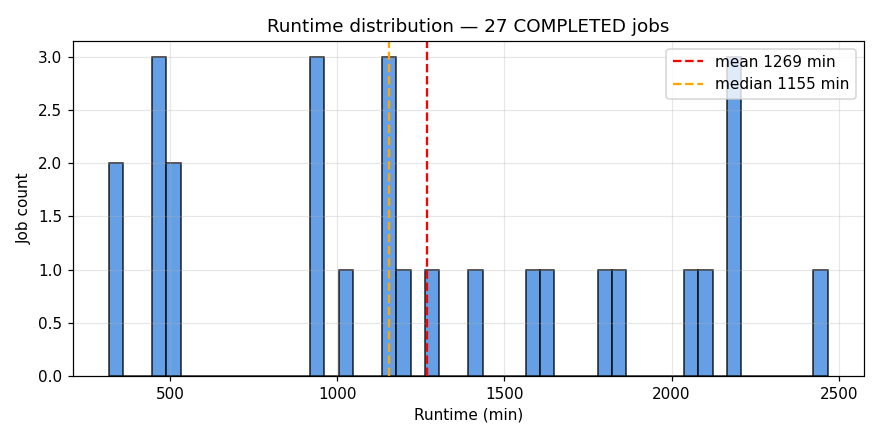
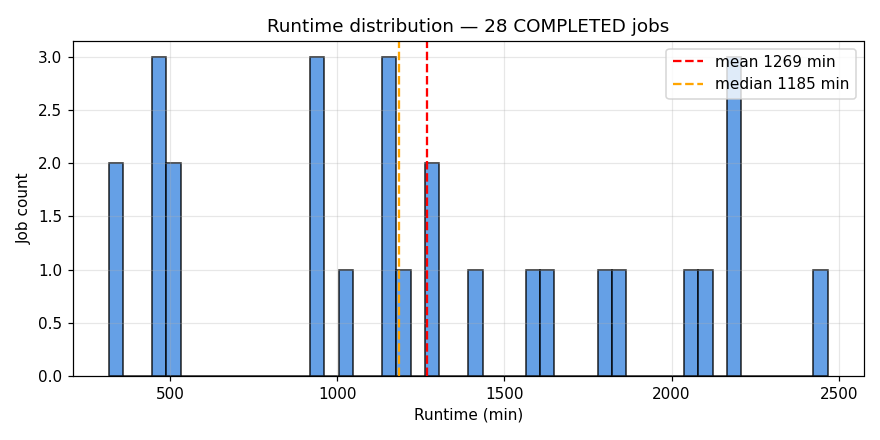
auto: 2026-09-25 13:15:57

diff --git a/index.html b/index.html
@@ -24,29 +24,29 @@ tr:nth-child(even) { background: #fafafa; }
 </style>
 </head><body>
 <h1>AF3 Campaign Dashboard</h1>
-<p class="stamp">Last updated: <strong>2026-09-25 12:15 EDT</strong> · regenerated on the cluster hourly · this page auto-reloads every 30 min</p>
+<p class="stamp">Last updated: <strong>2026-09-25 13:16 EDT</strong> · regenerated on the cluster hourly · this page auto-reloads every 30 min</p>
 
 <div class="cards">
-  <div class="card"><div class="v">1,715</div><div class="l">Total COMPLETED pairs</div></div>
-  <div class="card"><div class="v">634</div><div class="l">Done today</div></div>
-  <div class="card"><div class="v">936</div><div class="l">Last 24 h rate</div></div>
-  <div class="card"><div class="v">21 / 26</div><div class="l">Running / Pending now</div></div>
+  <div class="card"><div class="v">1,743</div><div class="l">Total COMPLETED pairs</div></div>
+  <div class="card"><div class="v">662</div><div class="l">Done today</div></div>
+  <div class="card"><div class="v">935</div><div class="l">Last 24 h rate</div></div>
+  <div class="card"><div class="v">20 / 26</div><div class="l">Running / Pending now</div></div>
 </div>
 
 <h2>Live queue</h2>
 <div class="plots">
   <div>
-    <h3>RUNNING (21)</h3>
+    <h3>RUNNING (20)</h3>
     <div class="queue-table">
       <table><thead><tr><th>Job</th><th>Elapsed</th><th>Left</th><th>Reason / Node</th></tr></thead>
-      <tbody><tr><td>af3_p061_b002</td><td>6:15:16</td><td>1-17:44:44</td><td>alphagpu51</td></tr><tr><td>af3_p061_b001</td><td>7:08:41</td><td>1-16:51:19</td><td>alphagpu53</td></tr><tr><td>af3_p060_b002</td><td>7:28:24</td><td>1-16:31:36</td><td>alphagpu51</td></tr><tr><td>af3_p060_b001</td><td>10:57:14</td><td>1-13:02:46</td><td>alphagpu53</td></tr><tr><td>af3_p059_b002</td><td>11:17:43</td><td>1-12:42:17</td><td>alphagpu52</td></tr><tr><td>af3_p059_b001</td><td>13:15:54</td><td>1-10:44:06</td><td>alphagpu52</td></tr><tr><td>af3_p058_b002</td><td>14:16:01</td><td>1-09:43:59</td><td>alphagpu51</td></tr><tr><td>af3_p058_b001</td><td>14:53:50</td><td>1-09:06:10</td><td>alphagpu53</td></tr><tr><td>af3_p057_b002</td><td>14:59:26</td><td>1-09:00:34</td><td>alphagpu53</td></tr><tr><td>af3_p057_b001</td><td>15:06:41</td><td>1-08:53:19</td><td>alphagpu53</td></tr><tr><td>af3_p056_b002</td><td>15:10:00</td><td>1-08:50:00</td><td>alphagpu51</td></tr><tr><td>af3_p056_b001</td><td>15:21:22</td><td>1-08:38:38</td><td>alphagpu53</td></tr><tr><td>af3_p055_b002</td><td>15:24:44</td><td>1-08:35:16</td><td>alphagpu54</td></tr><tr><td>af3_p055_b001</td><td>20:27:20</td><td>1-03:32:40</td><td>alphagpu52</td></tr><tr><td>af3_p054_b001</td><td>20:44:15</td><td>1-03:15:45</td><td>alphagpu52</td></tr><tr><td>af3_p053_b002</td><td>20:51:10</td><td>1-03:08:50</td><td>alphagpu54</td></tr><tr><td>af3_p053_b001</td><td>20:53:58</td><td>1-03:06:02</td><td>alphagpu53</td></tr><tr><td>af3_p052_b001</td><td>1-18:05:17</td><td>5:54:43</td><td>alphagpu54</td></tr><tr><td>af3_p051_b001</td><td>1-18:37:06</td><td>5:22:54</td><td>alphagpu54</td></tr><tr><td>af3_p062_b002</td><td>1:28:39</td><td>1-22:31:21</td><td>alphagpu51</td></tr><tr><td>af3_p062_b001</td><td>2:12:10</td><td>1-21:47:50</td><td>alphagpu54</td></tr></tbody></table>
+      <tbody><tr><td>af3_p061_b002</td><td>7:15:50</td><td>1-16:44:10</td><td>alphagpu51</td></tr><tr><td>af3_p061_b001</td><td>8:09:15</td><td>1-15:50:45</td><td>alphagpu53</td></tr><tr><td>af3_p060_b002</td><td>8:28:58</td><td>1-15:31:02</td><td>alphagpu51</td></tr><tr><td>af3_p060_b001</td><td>11:57:48</td><td>1-12:02:12</td><td>alphagpu53</td></tr><tr><td>af3_p059_b002</td><td>12:18:17</td><td>1-11:41:43</td><td>alphagpu52</td></tr><tr><td>af3_p059_b001</td><td>14:16:28</td><td>1-09:43:32</td><td>alphagpu52</td></tr><tr><td>af3_p058_b002</td><td>15:16:35</td><td>1-08:43:25</td><td>alphagpu51</td></tr><tr><td>af3_p058_b001</td><td>15:54:24</td><td>1-08:05:36</td><td>alphagpu53</td></tr><tr><td>af3_p057_b002</td><td>16:00:00</td><td>1-08:00:00</td><td>alphagpu53</td></tr><tr><td>af3_p057_b001</td><td>16:07:15</td><td>1-07:52:45</td><td>alphagpu53</td></tr><tr><td>af3_p056_b002</td><td>16:10:34</td><td>1-07:49:26</td><td>alphagpu51</td></tr><tr><td>af3_p056_b001</td><td>16:21:56</td><td>1-07:38:04</td><td>alphagpu53</td></tr><tr><td>af3_p055_b002</td><td>16:25:18</td><td>1-07:34:42</td><td>alphagpu54</td></tr><tr><td>af3_p055_b001</td><td>21:27:54</td><td>1-02:32:06</td><td>alphagpu52</td></tr><tr><td>af3_p054_b001</td><td>21:44:49</td><td>1-02:15:11</td><td>alphagpu52</td></tr><tr><td>af3_p053_b001</td><td>21:54:32</td><td>1-02:05:28</td><td>alphagpu53</td></tr><tr><td>af3_p052_b001</td><td>1-19:05:51</td><td>4:54:09</td><td>alphagpu54</td></tr><tr><td>af3_p051_b001</td><td>1-19:37:40</td><td>4:22:20</td><td>alphagpu54</td></tr><tr><td>af3_p062_b002</td><td>2:29:13</td><td>1-21:30:47</td><td>alphagpu51</td></tr><tr><td>af3_p062_b001</td><td>3:12:44</td><td>1-20:47:16</td><td>alphagpu54</td></tr></tbody></table>
     </div>
   </div>
   <div>
     <h3>PENDING (26)</h3>
     <div class="queue-table">
       <table><thead><tr><th>Job</th><th>Wait</th><th>Limit</th><th>Reason</th></tr></thead>
-      <tbody><tr><td>af3_p069_b002</td><td>0:00</td><td>2-00:00:00</td><td>(Priority)</td></tr><tr><td>af3_p069_b001</td><td>0:00</td><td>2-00:00:00</td><td>(Priority)</td></tr><tr><td>af3_p068_b002</td><td>0:00</td><td>2-00:00:00</td><td>(Priority)</td></tr><tr><td>af3_p068_b001</td><td>0:00</td><td>2-00:00:00</td><td>(Priority)</td></tr><tr><td>af3_p067_b002</td><td>0:00</td><td>2-00:00:00</td><td>(Priority)</td></tr><tr><td>af3_p067_b001</td><td>0:00</td><td>2-00:00:00</td><td>(Priority)</td></tr><tr><td>af3_p066_b002</td><td>0:00</td><td>2-00:00:00</td><td>(Priority)</td></tr><tr><td>af3_p066_b001</td><td>0:00</td><td>2-00:00:00</td><td>(Priority)</td></tr><tr><td>af3_p065_b002</td><td>0:00</td><td>2-00:00:00</td><td>(Priority)</td></tr><tr><td>af3_p065_b001</td><td>0:00</td><td>2-00:00:00</td><td>(Priority)</td></tr><tr><td>af3_p064_b002</td><td>0:00</td><td>2-00:00:00</td><td>(Priority)</td></tr><tr><td>af3_p064_b001</td><td>0:00</td><td>2-00:00:00</td><td>(Priority)</td></tr><tr><td>af3_p063_b002</td><td>0:00</td><td>2-00:00:00</td><td>(Priority)</td></tr><tr><td>af3_p063_b001</td><td>0:00</td><td>2-00:00:00</td><td>(Priority)</td></tr><tr><td>af3_p070_b002</td><td>0:00</td><td>2-00:00:00</td><td>(Priority)</td></tr><tr><td>af3_p070_b001</td><td>0:00</td><td>2-00:00:00</td><td>(Priority)</td></tr><tr><td>af3_p074_b002</td><td>0:00</td><td>2-00:00:00</td><td>(Priority)</td></tr><tr><td>af3_p074_b001</td><td>0:00</td><td>2-00:00:00</td><td>(Priority)</td></tr><tr><td>af3_p073_b002</td><td>0:00</td><td>2-00:00:00</td><td>(Priority)</td></tr><tr><td>af3_p073_b001</td><td>0:00</td><td>2-00:00:00</td><td>(Priority)</td></tr><tr><td>af3_p072_b002</td><td>0:00</td><td>2-00:00:00</td><td>(Priority)</td></tr><tr><td>af3_p072_b001</td><td>0:00</td><td>2-00:00:00</td><td>(Priority)</td></tr><tr><td>af3_p071_b002</td><td>0:00</td><td>2-00:00:00</td><td>(Priority)</td></tr><tr><td>af3_p071_b001</td><td>0:00</td><td>2-00:00:00</td><td>(Priority)</td></tr><tr><td>af3_p075_b002</td><td>0:00</td><td>2-00:00:00</td><td>(Priority)</td></tr><tr><td>af3_p075_b001</td><td>0:00</td><td>2-00:00:00</td><td>(Priority)</td></tr></tbody></table>
+      <tbody><tr><td>af3_p066_b002</td><td>0:00</td><td>2-00:00:00</td><td>(Priority)</td></tr><tr><td>af3_p066_b001</td><td>0:00</td><td>2-00:00:00</td><td>(Priority)</td></tr><tr><td>af3_p065_b002</td><td>0:00</td><td>2-00:00:00</td><td>(Priority)</td></tr><tr><td>af3_p065_b001</td><td>0:00</td><td>2-00:00:00</td><td>(Priority)</td></tr><tr><td>af3_p064_b002</td><td>0:00</td><td>2-00:00:00</td><td>(Priority)</td></tr><tr><td>af3_p064_b001</td><td>0:00</td><td>2-00:00:00</td><td>(Priority)</td></tr><tr><td>af3_p063_b002</td><td>0:00</td><td>2-00:00:00</td><td>(Priority)</td></tr><tr><td>af3_p063_b001</td><td>0:00</td><td>2-00:00:00</td><td>(Priority)</td></tr><tr><td>af3_p070_b002</td><td>0:00</td><td>2-00:00:00</td><td>(Priority)</td></tr><tr><td>af3_p070_b001</td><td>0:00</td><td>2-00:00:00</td><td>(Priority)</td></tr><tr><td>af3_p069_b002</td><td>0:00</td><td>2-00:00:00</td><td>(Priority)</td></tr><tr><td>af3_p069_b001</td><td>0:00</td><td>2-00:00:00</td><td>(Priority)</td></tr><tr><td>af3_p068_b002</td><td>0:00</td><td>2-00:00:00</td><td>(Priority)</td></tr><tr><td>af3_p068_b001</td><td>0:00</td><td>2-00:00:00</td><td>(Priority)</td></tr><tr><td>af3_p067_b002</td><td>0:00</td><td>2-00:00:00</td><td>(Priority)</td></tr><tr><td>af3_p067_b001</td><td>0:00</td><td>2-00:00:00</td><td>(Priority)</td></tr><tr><td>af3_p074_b002</td><td>0:00</td><td>2-00:00:00</td><td>(Priority)</td></tr><tr><td>af3_p074_b001</td><td>0:00</td><td>2-00:00:00</td><td>(Priority)</td></tr><tr><td>af3_p073_b002</td><td>0:00</td><td>2-00:00:00</td><td>(Priority)</td></tr><tr><td>af3_p073_b001</td><td>0:00</td><td>2-00:00:00</td><td>(Priority)</td></tr><tr><td>af3_p072_b002</td><td>0:00</td><td>2-00:00:00</td><td>(Priority)</td></tr><tr><td>af3_p072_b001</td><td>0:00</td><td>2-00:00:00</td><td>(Priority)</td></tr><tr><td>af3_p071_b002</td><td>0:00</td><td>2-00:00:00</td><td>(Priority)</td></tr><tr><td>af3_p071_b001</td><td>0:00</td><td>2-00:00:00</td><td>(Priority)</td></tr><tr><td>af3_p075_b002</td><td>0:00</td><td>2-00:00:00</td><td>(Priority)</td></tr><tr><td>af3_p075_b001</td><td>0:00</td><td>2-00:00:00</td><td>(Priority)</td></tr></tbody></table>
     </div>
   </div>
 </div>
@@ -62,7 +62,7 @@ tr:nth-child(even) { background: #fafafa; }
 </div>
 
 <h2>All-time job state breakdown</h2>
-<table><thead><tr><th>State</th><th>Count</th></tr></thead><tbody><tr><td>COMPLETED</td><td>27</td></tr><tr><td>PENDING</td><td>26</td></tr><tr><td>RUNNING</td><td>21</td></tr></tbody></table>
+<table><thead><tr><th>State</th><th>Count</th></tr></thead><tbody><tr><td>COMPLETED</td><td>28</td></tr><tr><td>PENDING</td><td>26</td></tr><tr><td>RUNNING</td><td>20</td></tr></tbody></table>
 
 <p class="stamp"><small>Generated by <code>generate.py</code> on the SUNY HPC cluster.
 Source / regeneration policy at <a href="https://github.com/matvei-lukianov/af3-dashboard">github.com/matvei-lukianov/af3-dashboard</a></small></p>
